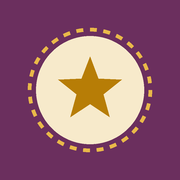
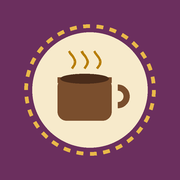
Add files via upload

Changed region(s): [[0.1111, 0.1111, 0.8889, 0.8889], [0.3056, 0.2778, 0.7222, 0.6944]]

diff --git a/index.html b/index.html
@@ -3,14 +3,14 @@
 <head>
 <meta charset="utf-8">
 <meta name="viewport" content="width=device-width,initial-scale=1,viewport-fit=cover">
-<title>Haushaltspunkte</title>
+<title>Kakaokasse</title>
 <meta name="theme-color" content="#6B2F5E">
 <link rel="manifest" href="manifest.webmanifest">
 <link rel="icon" href="icon-192.png">
 <link rel="apple-touch-icon" href="icon-180.png">
 <meta name="apple-mobile-web-app-capable" content="yes">
 <meta name="mobile-web-app-capable" content="yes">
-<meta name="apple-mobile-web-app-title" content="Punkte">
+<meta name="apple-mobile-web-app-title" content="Kakaokasse">
 <link rel="preconnect" href="https://fonts.googleapis.com">
 <link rel="stylesheet" href="https://fonts.googleapis.com/css2?family=Bricolage+Grotesque:opsz,wght@12..96,600;12..96,800&family=Atkinson+Hyperlegible:wght@400;700&display=swap">
 <style>
@@ -49,7 +49,35 @@ button{cursor:pointer}
 :focus-visible{outline:3px solid var(--accent);outline-offset:2px}
 .top{display:flex;align-items:center;justify-content:space-between;gap:12px}
 .me{display:flex;align-items:center;gap:8px;font-size:14px;color:var(--muted)}
-.av{width:30px;height:30px;border-radius:50%;display:grid;place-items:center;font-family:var(--display);font-weight:800;font-size:14px;color:#fff;flex:none}
+.av{width:30px;height:30px;border-radius:50%;display:grid;place-items:center;font-family:var(--display);font-weight:800;font-size:14px;color:#fff;flex:none;line-height:1}
+.av.emo{font-size:17px}
+.av.lg{width:44px;height:44px;font-size:19px}.av.lg.emo{font-size:24px}
+.av.xl{width:72px;height:72px;font-size:30px}.av.xl.emo{font-size:40px}
+button.mebtn{background:none;border:0;padding:4px;display:flex;align-items:center;gap:8px;color:var(--muted);font-size:14px;border-radius:999px}
+button.mebtn:hover{background:var(--surface)}
+button.mebtn:empty{display:none}
+.pickgrid{display:grid;grid-template-columns:repeat(auto-fill,minmax(44px,1fr));gap:8px}
+.pick{height:44px;border-radius:12px;border:2px solid transparent;background:var(--bg);font-size:24px;display:grid;place-items:center;padding:0}
+.pick[aria-pressed="true"]{border-color:var(--accent)}
+.swatch{width:36px;height:36px;border-radius:50%;border:3px solid transparent;padding:0}
+.swatch[aria-pressed="true"]{border-color:var(--ink)}
+/* Rangliste */
+.rank{display:flex;flex-direction:column;gap:8px}
+.rk{background:var(--surface);border:1px solid var(--line);border-radius:14px;padding:12px;display:flex;flex-direction:column;gap:10px}
+.rk.mine{border-color:var(--gold)}
+.rk .rtop{display:flex;align-items:center;gap:12px}
+.rk .pos{width:28px;height:28px;border-radius:50%;display:grid;place-items:center;font-family:var(--display);font-weight:800;font-size:14px;flex:none;color:var(--muted);border:1px solid var(--line)}
+.rk .pos.p1{background:#E9B949;border-color:#E9B949;color:#3A2E12}
+.rk .pos.p2{background:#C9D1CE;border-color:#C9D1CE;color:#2A3330}
+.rk .pos.p3{background:#D69A6A;border-color:#D69A6A;color:#3B2414}
+.rk .who{flex:1;min-width:0;display:flex;flex-direction:column}
+.rk .who .t{font-weight:700;overflow-wrap:anywhere}
+.rk .who .s{font-size:13px;color:var(--muted)}
+.rk .score{font-family:var(--display);font-weight:800;font-size:24px;font-variant-numeric:tabular-nums;text-align:right;line-height:1}
+.rk .score small{display:block;font-family:var(--body);font-weight:400;font-size:12px;color:var(--muted);margin-top:2px}
+.bar{height:6px;border-radius:3px;background:var(--bg);overflow:hidden}
+.bar i{display:block;height:100%;background:var(--gold);border-radius:3px}
+.rk .actions{display:flex;gap:6px;flex-wrap:wrap;justify-content:flex-end}
 
 .balances{display:grid;grid-template-columns:repeat(auto-fit,minmax(150px,1fr));gap:10px}
 .bal{background:var(--surface);border:1px solid var(--line);border-radius:14px;padding:14px;display:flex;flex-direction:column;gap:6px;min-width:0}
@@ -140,8 +168,8 @@ nav.tabs button[aria-current="page"]{color:var(--accent)}
 <body class="noTabs">
 <div class="wrap">
   <div class="top">
-    <div style="min-width:0"><h1>Haushaltspunkte</h1><button class="label linkbtn" id="groupName" data-act="groupNameTap" hidden style="padding:0"></button></div>
-    <div class="me" id="meChip"></div>
+    <div style="min-width:0"><h1>Kakaokasse</h1><button class="label linkbtn" id="groupName" data-act="groupNameTap" hidden style="padding:0"></button></div>
+    <button class="mebtn" id="meChip" data-act="profile" aria-label="Mein Profil"></button>
   </div>
   <div id="status" class="note" hidden></div>
 
@@ -151,7 +179,7 @@ nav.tabs button[aria-current="page"]{color:var(--accent)}
       <div class="sechead"><h2>Deine Gruppen</h2></div>
       <div class="list" id="startGroupList"></div>
     </section>
-    <p class="muted">Sammelt Punkte für Hausarbeit und tauscht sie gegen Belohnungen. Eine Person gründet die Gruppe, die anderen treten mit dem Code bei.</p>
+    <p class="muted">Punkte für Hausarbeit sammeln und gegen Belohnungen eintauschen, vom Kakao bis zum Filmabend. Eine Person gründet die Gruppe, die anderen treten mit dem Code bei.</p>
     <form class="card" id="joinCodeForm">
       <h3>Gruppe beitreten</h3>
       <input type="text" class="code" id="joinCode" placeholder="CODE" maxlength="9" autocomplete="off" autocapitalize="characters" required>
@@ -281,6 +309,10 @@ nav.tabs button[aria-current="page"]{color:var(--accent)}
     </div>
     <div data-view="group" class="view stack" hidden>
       <section>
+        <div class="sechead"><h2>Rangliste</h2><span class="label">nach Kontostand · <span id="memberCount"></span> Mitglieder</span></div>
+        <div class="rank" id="members"></div>
+      </section>
+      <section>
         <div class="sechead"><h2>Meine Gruppen</h2><span class="label">Auf diesem Handy</span></div>
         <div class="list" id="groupList"></div>
         <div><button class="btn" data-act="addGroup">+ Weitere Gruppe beitreten oder gründen</button></div>
@@ -299,12 +331,6 @@ nav.tabs button[aria-current="page"]{color:var(--accent)}
           <div><button class="btn ghost danger" type="button" id="joinPwRemove" data-act="removeJoinPw" data-confirm="Wirklich entfernen?">Passwort entfernen</button></div>
         </form>
       </section>
-      <section>
-        <div class="sechead"><h2>Mitglieder</h2><span class="label" id="memberCount"></span></div>
-        <div class="list" id="members"></div>
-        <div><button class="btn ghost danger" data-act="leave" data-confirm="Wirklich abmelden?">Auf diesem Handy abmelden</button></div>
-        <p class="muted small">Abmelden löscht nichts. Du kannst später mit dem Code wieder beitreten und dich als dieselbe Person auswählen.</p>
-      </section>
       <section class="card">
         <h3>Jemanden einladen</h3>
         <p class="muted small">Schick diesen Link oder den Code. Ein Konto braucht niemand.</p>
@@ -313,6 +339,10 @@ nav.tabs button[aria-current="page"]{color:var(--accent)}
         <div><button class="btn primary" data-act="copyInvite">Link kopieren</button></div>
       </section>
       <section class="card" id="pushCard"></section>
+      <section>
+        <div><button class="btn ghost danger" data-act="leave" data-confirm="Wirklich abmelden?">Auf diesem Handy abmelden</button></div>
+        <p class="muted small">Abmelden löscht nichts. Du kannst später mit dem Code wieder beitreten und dich als dieselbe Person auswählen.</p>
+      </section>
     </div>
   </div>
 </div>
@@ -324,6 +354,22 @@ nav.tabs button[aria-current="page"]{color:var(--accent)}
   <button data-tab="history"><svg viewBox="0 0 24 24"><path d="M3 12a9 9 0 1 0 3-6.7L3 8"/><path d="M3 3v5h5M12 7v5l3 2"/></svg>Verlauf</button>
   <button data-tab="group"><svg viewBox="0 0 24 24"><circle cx="9" cy="8" r="3.5"/><path d="M2.5 20c.6-3.6 3.3-5.5 6.5-5.5s5.9 1.9 6.5 5.5"/><circle cx="17" cy="9" r="2.5"/><path d="M16.5 14.5c2.6.2 4.4 1.9 5 4.5"/></svg>Gruppe</button>
 </div></nav>
+
+<div class="overlay" id="profileOverlay" hidden>
+  <div class="sheet">
+    <div style="display:flex;align-items:center;gap:14px"><span id="profilePreview"></span><div style="min-width:0"><h2 id="profileName"></h2><span class="muted small">Dein Profilbild sehen alle in der Gruppe.</span></div></div>
+    <div class="label">Symbol</div>
+    <div class="pickgrid" id="iconGrid"></div>
+    <div class="label">Farbe</div>
+    <div style="display:flex;gap:8px;flex-wrap:wrap" id="colorGrid"></div>
+    <div class="btns" style="justify-content:flex-start">
+      <button class="btn ghost" type="button" data-act="rename">Name ändern</button>
+      <button class="btn ghost" type="button" data-act="changePw">Passwort ändern</button>
+      <span style="flex:1"></span>
+      <button class="btn primary" type="button" data-act="profileClose">Fertig</button>
+    </div>
+  </div>
+</div>
 
 <div class="overlay" id="groupRenameOverlay" hidden>
   <form class="sheet" id="groupRenameForm">
@@ -414,10 +460,13 @@ const normCode = s => String(s||"").toUpperCase().replace(/[^A-Z0-9]/g,"");
 const gref = (...p) => doc(fs, "groups", S.group, ...p);
 const gcol = c => collection(fs, "groups", S.group, c);
 
-const COLORS = ["#6B2F5E","#1F6F78","#B4541E","#3E5BA9","#4F7A28","#8A3B3B"];
+const COLORS = ["#6B2F5E","#1F6F78","#B4541E","#3E5BA9","#4F7A28","#8A3B3B","#7A4E2D","#5B5F97","#B03A6A","#2F7D6D"];
+const ICONS = ["🐱","🐶","🦊","🐼","🐨","🐸","🐵","🦁","🐯","🐰","🐻","🐧","🦉","🐢","🐙","🦄","🌻","🌵","🍓","🍕","☕","🍫","🧁","🎸","⚽","🚀","🌈","⭐"];
 function colorFor(id){ let h=0; for (const c of String(id)) h=(h*31+c.charCodeAt(0))>>>0; return COLORS[h%COLORS.length] }
 function nameOf(id){ const m=S.members.find(m=>m.id===id); return m ? m.name : "Jemand" }
-function av(id){ const n=nameOf(id); return `<span class="av" style="background:${colorFor(id)}">${esc((n[0]||"?").toUpperCase())}</span>` }
+// Profilbild: gewähltes Symbol + Farbe, sonst Anfangsbuchstabe
+function av(id, size=""){ const m=memberOf(id), n=nameOf(id), col=(m&&m.color)||colorFor(id), ic=m&&m.icon;
+  return `<span class="av ${size} ${ic?"emo":""}" style="background:${esc(col)}">${ic?esc(ic):esc((n[0]||"?").toUpperCase())}</span>` }
 function when(t){ if(!t) return ""; const d=new Date(t), now=new Date(); const y=new Date(now); y.setDate(now.getDate()-1);
   const time=d.toLocaleTimeString("de-DE",{hour:"2-digit",minute:"2-digit"});
   if (d.toDateString()===now.toDateString()) return "heute "+time;
@@ -580,8 +629,8 @@ function render(){
   // Punktestand
   if (S.ready.entries && S.ready.redemptions){
     $("balances").innerHTML = [...S.members].sort((a,b)=>a.id===S.me?-1:b.id===S.me?1:(a.joinedAt||0)-(b.joinedAt||0)).map(m=>{ const {b,p}=balance(m.id);
-      return `<div class="bal ${m.id===S.me?"mine":""}"><div class="who">${av(m.id)}<span>${esc(m.name)}</span></div>
-      <div class="num">${b}<small>${b===1?"Punkt":"Punkte"}</small></div>${p?`<div class="pend">${sgn(p)} warten auf Bestätigung</div>`:""}</div>` }).join("");
+      return `<div class="bal ${m.id===S.me?"mine":""}"><div class="who">${av(m.id,"lg")}<span>${esc(m.name)}</span></div>
+      <div class="num">${b<0?"−"+Math.abs(b):b}<small>${b===1?"Punkt":"Punkte"}</small></div>${p?`<div class="pend">${sgn(p)} warten auf Bestätigung</div>`:""}</div>` }).join("");
   } else $("balances").innerHTML = `<div class="bal"><div class="label">Punktestand</div><div class="muted small">Wird geladen …</div></div>`;
   const solo = S.members.length<2, master = iAmMaster();
   // Aufgaben
@@ -656,12 +705,22 @@ function render(){
     const by = x.h==="e"&&x.createdBy&&x.createdBy!==x.uid ? ` · eingetragen von ${esc(nameOf(x.createdBy))}` : "";
     return `<div class="row">${av(x.uid)}<span class="main"><span class="t">${esc(x.title)}</span><span class="s">${esc(nameOf(x.uid))} · ${when(x.at)}${by}${by?"":st}</span></span>${val}${del}</div>` }).join("")
     : `<div class="empty">Noch nichts passiert. Tippe unter „Sammeln“ auf eine erledigte Aufgabe.</div>`;
-  $("members").innerHTML = [...S.members].sort((a,b)=>(isMaster(b.id)-isMaster(a.id))||((a.joinedAt||0)-(b.joinedAt||0))).map(m=>{
-    const denied = isMaster(m.id) ? [] : Object.keys(RIGHTS).filter(r=>!can(m.id,r));
-    const sub = isMaster(m.id) ? "Master" : (denied.length ? "Darf nicht: "+denied.map(r=>RIGHTS[r]).join(", ") : "Mitglied");
-    const btns = (m.id===S.me?`<button class="btn ghost" data-act="rename">Umbenennen</button><button class="btn ghost" data-act="changePw">Passwort ändern</button>`:"")
-      + (master?`<button class="btn" data-act="manage" data-id="${m.id}">Verwalten</button>`:"");
-    return `<div class="row" style="flex-wrap:wrap">${av(m.id)}<span class="main" style="flex:1 1 140px"><span class="t">${esc(m.name)}${m.id===S.me?" (du)":""}</span><span class="s">${esc(sub)}</span></span>${btns?`<span class="actions">${btns}</span>`:""}</div>` }).join("");
+  // Rangliste nach Kontostand; Gleichstand teilt sich den Platz
+  const ranked = S.members.map(m=>({m, ...balance(m.id)})).sort((a,b)=>(b.b-a.b)||((a.m.joinedAt||0)-(b.m.joinedAt||0)));
+  const top = Math.max(1, ...ranked.map(r=>r.b));
+  let lastB=null, lastPos=0;
+  $("members").innerHTML = ranked.map((r,i)=>{ const m=r.m;
+    const pos = r.b===lastB ? lastPos : i+1; lastB=r.b; lastPos=pos;
+    const denied = isMaster(m.id) ? [] : Object.keys(RIGHTS).filter(x=>!can(m.id,x));
+    const sub = isMaster(m.id) ? "Master" : (denied.length ? "Darf nicht: "+denied.map(x=>RIGHTS[x]).join(", ") : "Mitglied");
+    const btns = (m.id===S.me?`<button class="btn ghost" data-act="profile">Mein Profil</button>`:"")
+      + (master?`<button class="btn ghost" data-act="manage" data-id="${m.id}">Verwalten</button>`:"");
+    return `<div class="rk ${m.id===S.me?"mine":""}">
+      <div class="rtop"><span class="pos ${pos<=3&&r.b>0?"p"+pos:""}">${pos}</span>${av(m.id,"lg")}
+        <span class="who"><span class="t">${esc(m.name)}${m.id===S.me?" (du)":""}</span><span class="s">${esc(sub)}${r.p?` · ${sgn(r.p)} offen`:""}</span></span>
+        <span class="score">${r.b<0?"−"+Math.abs(r.b):r.b}<small>${Math.abs(r.b)===1?"Punkt":"Punkte"}</small></span></div>
+      <div class="bar" aria-hidden="true"><i style="width:${Math.max(0,Math.round(r.b/top*100))}%"></i></div>
+      ${btns?`<div class="actions">${btns}</div>`:""}</div>` }).join("");
   $("memberCount").textContent = S.members.length;
   $("groupCode").textContent = fmtCode(S.group);
   $("inviteLink").textContent = inviteUrl();
@@ -746,7 +805,7 @@ document.addEventListener("change", ev => {
     if (!t.checked && masterIds().length<=1){ t.checked=true; toast("Es muss mindestens einen Master geben."); return }
     w(updateDoc(gref("members",id), {role: t.checked ? "master" : null}));
     toast(t.checked ? `${nameOf(id)} ist jetzt Master.` : `${nameOf(id)} ist kein Master mehr.`);
-    push([id], "Haushaltspunkte", t.checked ? `${myName()} hat dir Master-Rechte gegeben.` : `${myName()} hat dir die Master-Rechte entzogen.`);
+    push([id], "Kakaokasse", t.checked ? `${myName()} hat dir Master-Rechte gegeben.` : `${myName()} hat dir die Master-Rechte entzogen.`);
   } else if (t.dataset.right){ const id=t.dataset.id, m=memberOf(id); if(!m) return;
     const restrict = {...(m.restrict||{}), [t.dataset.right]: !t.checked};
     w(updateDoc(gref("members",id), {restrict}));
@@ -762,6 +821,16 @@ function saveGroupName(raw){ if(!iAmMaster()){ toast("Nur Master können die Gru
   w(setDoc(groupDoc(), {name}, {merge:true}));
   if (name) store.set("hp_gname_"+S.group, name); else store.del("hp_gname_"+S.group);
   renderGroupLists(); toast(name?`Gruppe heißt jetzt „${name}“.`:"Gruppenname entfernt.") }
+/* ---------- Mein Profil ---------- */
+// Sofort anzeigen, bevor die Datenbank antwortet
+function patchMe(p){ const m=memberOf(S.me); if(m) Object.assign(m,p); render(); renderProfile() }
+function renderProfile(){ if($("profileOverlay").hidden) return; const m=memberOf(S.me); if(!m) return;
+  $("profilePreview").innerHTML = av(S.me,"xl"); $("profileName").textContent = m.name;
+  const col = m.color || colorFor(S.me);
+  $("iconGrid").innerHTML = `<button class="pick" data-act="pickIcon" data-v="" aria-pressed="${!m.icon}" aria-label="Anfangsbuchstabe" style="font-family:var(--display);font-weight:800;font-size:18px">${esc((m.name[0]||"?").toUpperCase())}</button>`
+    + ICONS.map(ic=>`<button class="pick" data-act="pickIcon" data-v="${ic}" aria-pressed="${m.icon===ic}">${ic}</button>`).join("");
+  $("colorGrid").innerHTML = COLORS.map(c=>`<button class="swatch" data-act="pickColor" data-v="${c}" style="background:${c}" aria-pressed="${col===c}" aria-label="Farbe ${c}"></button>`).join("");
+}
 function openGroupRename(){ if(!iAmMaster()) return; $("groupRenameInput").value=S.groupInfo.name||""; $("groupRenameOverlay").hidden=false; setTimeout(()=>$("groupRenameInput").focus(),50) }
 $("groupRenameForm").addEventListener("submit", ev => { ev.preventDefault(); $("groupRenameOverlay").hidden=true; saveGroupName($("groupRenameInput").value) });
 $("groupNameForm").addEventListener("submit", ev => { ev.preventDefault(); $("groupNameInput").blur(); saveGroupName($("groupNameInput").value) });
@@ -776,7 +845,7 @@ async function joinPwOk(){
   $("whoPw").value=""; return true }
 function inviteUrl(){ const u = new URL(location.href); u.search = "?g="+S.group; u.hash=""; return u.toString() }
 
-function setTab(t){ S.tab=t; document.querySelectorAll(".view").forEach(v=>v.hidden=v.dataset.view!==t);
+function setTab(t){ S.tab=t; $("balances").hidden = t==="group"; document.querySelectorAll(".view").forEach(v=>v.hidden=v.dataset.view!==t);
   document.querySelectorAll("nav.tabs button").forEach(b=>b.dataset.tab===t?b.setAttribute("aria-current","page"):b.removeAttribute("aria-current"));
   store.set("hp_tab",t); window.scrollTo(0,0) }
 
@@ -956,7 +1025,7 @@ document.addEventListener("click", ev => {
   else if (act==="removeMember"){ if(!iAmMaster()||id===S.me) return; if(isMaster(id)&&masterIds().length<=1) return; closeMember(); w(deleteDoc(gref("members",id))); toast("Aus der Gruppe entfernt.") }
   else if (act==="iam") iAm(id);
   else if (act==="loginCancel") closeLogin();
-  else if (act==="changePw") openLogin("change", S.me);
+  else if (act==="changePw"){ $("profileOverlay").hidden=true; openLogin("change", S.me) }
   else if (act==="resetPw"){ if(!iAmMaster()||id===S.me) return; w(updateDoc(gref("members",id),{pwHash:null}));
     toast(`Passwort von ${nameOf(id)} zurückgesetzt. Beim nächsten Anmelden legt ${nameOf(id)} ein neues fest.`);
     push([id], "Passwort zurückgesetzt", `${myName()} hat dein Passwort zurückgesetzt. Lege in der App ein neues fest.`) }
@@ -965,7 +1034,7 @@ document.addEventListener("click", ev => {
   else if (act==="pushOn"){ const topic="hp-"+rnd(20,"abcdefghijkmnpqrstuvwxyz23456789"); w(updateDoc(gref("members",S.me),{ntfy:topic})); toast("Push eingerichtet. Folge jetzt den Schritten.") }
   else if (act==="pushOff"){ w(updateDoc(gref("members",S.me),{ntfy:null})); toast("Push ausgeschaltet.") }
   else if (act==="pushTest"){ const m=memberOf(S.me); if(!m||!m.ntfy) return;
-    sendNtfy(m.ntfy,"Haushaltspunkte","Test: Push funktioniert! 🎉").then(r=>toast(r.ok?"Test gesendet. Kommt sie in ntfy an?":"Senden hat nicht geklappt."),()=>toast("Senden hat nicht geklappt. Bist du online?")) }
+    sendNtfy(m.ntfy,"Kakaokasse","Test: Push funktioniert! 🎉").then(r=>toast(r.ok?"Test gesendet. Kommt sie in ntfy an?":"Senden hat nicht geklappt."),()=>toast("Senden hat nicht geklappt. Bist du online?")) }
   else if (act==="copyTopic"){ const m=memberOf(S.me); if(!m) return;
     if (navigator.clipboard) navigator.clipboard.writeText(m.ntfy).then(()=>toast("Thema kopiert."),()=>toast("Bitte das Thema markieren und kopieren."));
     else toast("Bitte das Thema markieren und kopieren.") }
@@ -975,14 +1044,18 @@ document.addEventListener("click", ev => {
     const rest=myGroups().filter(c=>c!==cur); saveGroups(rest); enterGroup(rest[0]||null); toast(rest.length?`Abgemeldet. Jetzt geöffnet: ${groupLabel(rest[0])}.`:"Abgemeldet.") }
   else if (act==="switchGroup"){ if(id!==S.group){ enterGroup(id); setTab("collect"); toast(`${groupLabel(id)} geöffnet.`) } }
   else if (act==="groupRename"){ openGroupRename() }
+  else if (act==="profile"){ if(S.me && memberOf(S.me)){ $("profileOverlay").hidden=false; renderProfile() } }
+  else if (act==="profileClose"){ $("profileOverlay").hidden=true }
+  else if (act==="pickIcon"){ const v=b.dataset.v||null; w(updateDoc(gref("members",S.me),{icon:v})); patchMe({icon:v}) }
+  else if (act==="pickColor"){ w(updateDoc(gref("members",S.me),{color:b.dataset.v})); patchMe({color:b.dataset.v}) }
   else if (act==="groupRenameCancel"){ $("groupRenameOverlay").hidden=true }
   else if (act==="groupNameTap"){ if (iAmMaster()) openGroupRename(); else setTab("group") }
   else if (act==="addGroup"){ enterGroup(null); window.scrollTo(0,0) }
-  else if (act==="rename"){ $("renameName").value=nameOf(S.me); $("renameOverlay").hidden=false; $("renameName").focus() }
+  else if (act==="rename"){ $("profileOverlay").hidden=true; $("renameName").value=nameOf(S.me); $("renameOverlay").hidden=false; $("renameName").focus() }
   else if (act==="renameCancel") $("renameOverlay").hidden=true;
   else if (act==="copyInvite"){ const url=inviteUrl();
     const done=()=>toast("Link kopiert.");
-    if (navigator.share){ navigator.share({title:"Haushaltspunkte",text:`Mach mit bei unseren Haushaltspunkten! Code: ${fmtCode(S.group)}`,url}).catch(()=>{}) }
+    if (navigator.share){ navigator.share({title:"Kakaokasse",text:`Mach mit bei unserer Kakaokasse! Code: ${fmtCode(S.group)}`,url}).catch(()=>{}) }
     else if (navigator.clipboard) navigator.clipboard.writeText(url).then(done,()=>toast("Bitte den Link oben markieren und kopieren."));
     else toast("Bitte den Link oben markieren und kopieren.") }
   else if (act==="edit"||act==="counter") openEdit(coll,id,act);
@@ -1039,7 +1112,7 @@ bindForm("freeForm","freeTitle","freePoints",(t,p)=>{ const m=iAmMaster();
   w(setDoc(doc(gcol("entries")), entry));
   push(confirmersOf(entry), "Bitte bestätigen", `${myName()} hat „${t}“ erledigt und schlägt ${pts(p)} vor.`);
   toast(m ? `Gemeldet. ${pts(p)} zählen, sobald jemand bestätigt.` : `Gemeldet. ${masterNames()} prüft die Punkte und bestätigt.`) });
-document.addEventListener("keydown", e => { if(e.key==="Escape"){ closeEdit(); closeMember(); $("groupRenameOverlay").hidden=true; if(login&&!login.forced) closeLogin(); $("renameOverlay").hidden=true } });
+document.addEventListener("keydown", e => { if(e.key==="Escape"){ closeEdit(); closeMember(); $("groupRenameOverlay").hidden=true; $("profileOverlay").hidden=true; if(login&&!login.forced) closeLogin(); $("renameOverlay").hidden=true } });
 
 /* ---------- Start ---------- */
 function boot(){

diff --git a/ANLEITUNG.md b/ANLEITUNG.md
@@ -1,4 +1,4 @@
-# Haushaltspunkte einrichten
+# Kakaokasse einrichten
 
 Einmalig etwa 15 Minuten. Danach braucht niemand ein Konto: Die anderen öffnen einfach den Einladungslink.
 Alles läuft im kostenlosen Tarif von Firebase („Spark“) und auf GitHub Pages. Eine Kreditkarte braucht ihr nicht.
@@ -39,10 +39,23 @@ Damit bekommt jedes Handy unsichtbar eine Geräte-ID. Niemand muss sich registri
 1. Öffne die Adresse auf deinem Handy.
 2. **Tipp:** Füge die Seite zuerst zum Home-Bildschirm hinzu (iPhone: Teilen → „Zum Home-Bildschirm“; Android: Menü → „App installieren“) und öffne sie von dort. Auf dem iPhone merkt sich die Home-Bildschirm-App ihre Gruppe getrennt von Safari.
 3. „Neue Gruppe gründen“ → deinen Namen eingeben.
-4. Unter **Verlauf → Jemanden einladen** den Link teilen. Die andere Person öffnet ihn, tippt „Beitreten“ und gibt ihren Namen ein.
+4. Unter **Gruppe → Jemanden einladen** den Link teilen. Die andere Person öffnet ihn, tippt „Beitreten“ und gibt ihren Namen ein.
+
+## Master, Rechte und Passwort
+- Wer die Gruppe gründet, ist **Master**. Unter **Gruppe → Mitglieder → Verwalten** kann ein Master anderen Master-Rechte geben oder entziehen. Es bleibt immer mindestens ein Master.
+- Master geben neue Aufgaben, Belohnungen und Freitext-Punkte frei, verwalten die Gruppe und können einzelnen Personen Rechte entziehen: Erledigtes bestätigen, Vorschläge machen, Freitext melden.
+- Erledigte Aufgaben zählen erst, wenn jemand anderes sie bestätigt. Niemand kann sich selbst bestätigen.
+- Unter **Gruppe → Gruppe verwalten** (nur für Master): Gruppenname und **Beitritts-Passwort**. Ist es gesetzt, brauchen neue Mitglieder Code und Passwort.
+
+## Push-Nachrichten (kostenlos über ntfy)
+1. In der App unter **Gruppe → Push-Nachrichten** auf **Push einrichten** tippen.
+2. Die kostenlose App **ntfy** aus dem App Store bzw. Google Play Store installieren.
+3. In ntfy auf **+** tippen und das angezeigte Thema eintragen (Server: ntfy.sh). Mit **Test senden** prüfen.
+Das Thema ist dein persönlicher Kanal. Gib es nicht weiter.
 
 ## Gut zu wissen
-- **Handy gewechselt oder Browserdaten gelöscht?** Mit dem Code wieder beitreten und auf „Ich bin …“ tippen. Es geht nichts verloren.
+- **Handy gewechselt oder Browserdaten gelöscht?** Mit dem Code wieder beitreten, auf „Ich bin …“ tippen und mit dem persönlichen Passwort anmelden. Es geht nichts verloren.
+- **Persönliches Passwort:** Jede Person legt beim Beitreten ein eigenes Passwort fest. Ändern unter **Gruppe → Mitglieder → Passwort ändern**. Vergessen? Ein Master kann es unter **Verwalten** zurücksetzen.
 - **Offline:** Was ihr ohne Netz eintragt, wird übertragen, sobald wieder Verbindung besteht.
 - **Kostenlose Grenzen:** Firestore erlaubt im Spark-Tarif 50.000 Lesezugriffe und 20.000 Schreibzugriffe pro Tag. Für einen Haushalt reicht das um ein Vielfaches. Wird ein Limit doch erreicht, pausiert die Datenbank bis zum nächsten Tag. Es entstehen keine Kosten.
 - **Sicherheit:** Wer den 8-stelligen Code kennt, kann mitmachen. Teilt ihn also nur mit eurer Wohnung.
